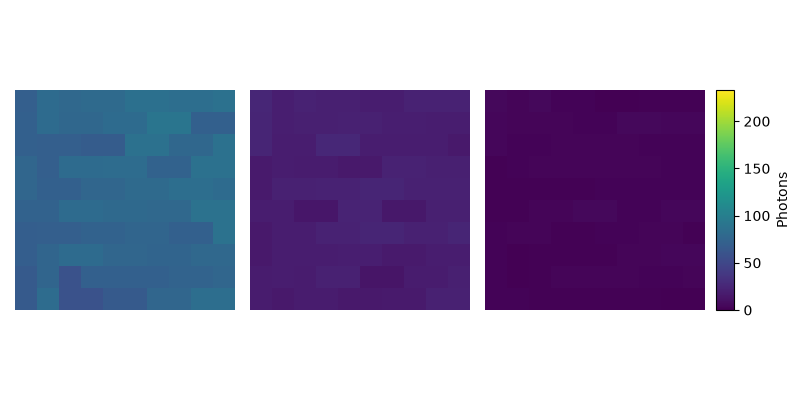
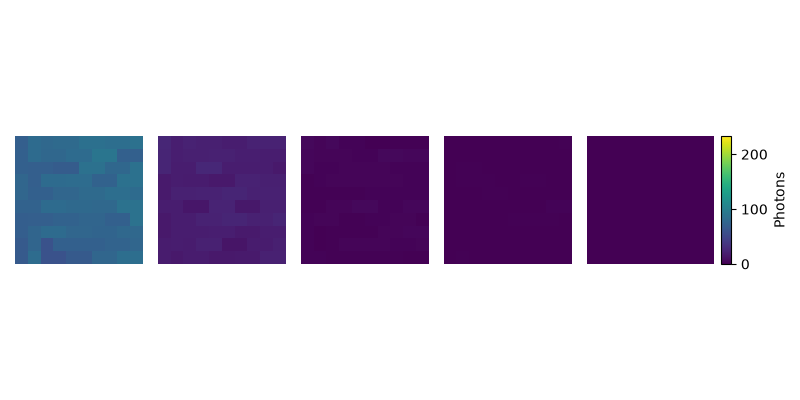
Some plots and code for creating report figures.

diff --git a/code/report/plots.py b/code/report/plots.py
@@ -6,7 +6,7 @@ This code is used to create extra plots for the report (not all plots in the rep
 from astropy.io import fits
 import copy
 import healpy as hp
-# import matplotlib.colorizer as mcolorizer
+# from matplotlib import colorizer as mcolorizer
 import matplotlib.colors as mcolors
 from matplotlib.patches import Polygon
 import matplotlib.pyplot as plt
@@ -446,11 +446,13 @@ def plot_exposure_map(title: str = "Exposure", directory= "./plots/", logarithmi
 
 def plot_simulated_count_map(title: str = "Simulated Count", directory= "./plots/", logarithmic=False):
 
-    _, energy_bins = create_exposure_map(exposure_file="/Volumes/T7/project_data/real_data/fermi_filtered_gti_exposure_map.fits")
+    energy_bins = np.logspace(np.log(300), np.log(200000), num=6, base=np.e)
 
-    location = "./../data_simulation/simulated_data/"
+    agns_maps = np.array([hp.read_map("./skymap_0_for_plotting/agns_{}.fits".format(b)) for b in range(5)])
+    psrs_maps = np.array([hp.read_map("./skymap_0_for_plotting/pulsars_{}.fits".format(b)) for b in range(5)])
+    background_maps = np.array([hp.read_map("./skymap_0_for_plotting/background_{}.fits".format(b)) for b in range(5)])
 
-    healpix_maps = np.array([hp.read_map(location, hdu="SKYMAP", field=b) for b in range(5)])
+    healpix_maps = agns_maps + psrs_maps + background_maps
 
     # Format energy bins
     energy_bin_labels = format_scientific_notation_label(energy_bins)
@@ -475,13 +477,17 @@ def plot_simulated_count_map(title: str = "Simulated Count", directory= "./plots
     else:
         new_line = ""
 
+    plt.rcParams["figure.figsize"] = (40, 50)
+
     for b in range(len(healpix_maps)):
+
         label = "{} Map \n {}{} - {} MeV".format(title, new_line, energy_bin_labels[b], energy_bin_labels[b + 1])
 
         hp.newvisufunc.projview(
             data[b], coord=["G"], graticule=True, graticule_labels=True, xlabel="Galactic Longitude, $l$ [$\\degree$]",
             ylabel="Galactic Latitude, $b$ [$\\degree$]", cb_orientation="vertical", projection_type="aitoff", title=label,
-            sub=(3, 2, b + 1), unit="cm$^2$s", xtick_label_color='white', fontsize={"cbar_tick_label": 12, "cbar_label": 14, "xlabel":14, "ylabel":14}
+            sub=(3, 2, b + 1), unit="log$_{10}$(photons)", xtick_label_color='white',
+            fontsize={"cbar_tick_label": 12, "cbar_label": 14, "xlabel": 14, "ylabel": 14}
         )
 
     plt.tight_layout()
@@ -499,9 +505,9 @@ def plot_419(patch_directory="./../source_extractors/real_data/real_patches/patc
 
     plt.rcParams["figure.figsize"] = (4, 10)
 
-    binned_patch = np.load(patch_directory + "/patch.npy")[:4]
+    binned_patch = np.load(patch_directory + "/patch.npy")
 
-    fig, axs = plt.subplots(4, 1, gridspec_kw={"height_ratios":[1, 1, 1, 0.05]})
+    fig, axs = plt.subplots(6, 1, gridspec_kw={"height_ratios": [1, 1, 1, 1, 1, 0.05]})
 
     # create a colorizer with a predefined norm to be shared across all images
     norm = mcolors.Normalize(vmin=np.min(binned_patch), vmax=np.max(binned_patch))
@@ -513,7 +519,7 @@ def plot_419(patch_directory="./../source_extractors/real_data/real_patches/patc
 
     for ax, data in zip(axs.flat, binned_patch):
 
-        if count == 3:
+        if count == 5:
             fig.colorbar(images[0], orientation='horizontal', cax=ax, fraction=0.1, label="Photons")
             continue
 
@@ -521,6 +527,8 @@ def plot_419(patch_directory="./../source_extractors/real_data/real_patches/patc
         ax.set_axis_off()
 
         count += 1
+
+    fig.colorbar(images[0], orientation='horizontal', cax=axs.flat[5], fraction=0.1, label="Photons")
 
     fig.tight_layout()
 
@@ -574,7 +582,7 @@ def plot_419(patch_directory="./../source_extractors/real_data/real_patches/patc
 
     for r in regions:
 
-        fig, axs = plt.subplots(1, 3,  gridspec_kw={"width_ratios":[1, 1, 1]})
+        fig, axs = plt.subplots(1, 5, gridspec_kw={"width_ratios":[1, 1, 1, 1, 1]})
         # fig.suptitle("Boxes Around Detected Sources")
 
         images = []
@@ -587,7 +595,7 @@ def plot_419(patch_directory="./../source_extractors/real_data/real_patches/patc
 
         for ax, data in zip(axs.flat, r):
 
-            if count == 3:
+            if count == 5:
                 # fig.colorbar(images[0], orientation='vertical', cax=ax, label="Photons", fraction=0.046, pad=0.04)
                 continue
 
@@ -599,7 +607,7 @@ def plot_419(patch_directory="./../source_extractors/real_data/real_patches/patc
         # cax = fig.add_axes([axs.flat[3].get_position().x1 - 0.25, axs.flat[2].get_position().y0, 0.02,
         #                     axs.flat[2].get_position().y1 - axs.flat[2].get_position().y0])
 
-        cax = axs[2].inset_axes((1.05, 0, 0.08, 1.0))
+        cax = axs[4].inset_axes((1.05, 0, 0.08, 1.0))
 
         fig.colorbar(images[0], orientation='vertical', cax=cax, label="Photons")
 
@@ -716,22 +724,163 @@ def plot_integration_of_spectra():
 
     plt.show()
 
+def plot_fitted_point_source_psf(psf_file: str, function_parameters, directory: str):
+
+    empirical = []
+    energy_bins = []
+
+    # Plot empirical data from gtpsf
+    with fits.open(psf_file) as hdul:
+
+        thetas = np.array([k[0] for k in hdul["THETA"].data])
+
+        psf_data = hdul["PSF"].data
+
+        num_bins = len(psf_data)
+
+        for b in range(num_bins):
+            # Lowest energy (MeV) of this bin
+            energy_value = psf_data[b][0]
+
+            # PSF values dP/dOmega - probability to find event in solid angle dOmega at offset r from point source
+            psf_values = np.array(psf_data[b][2])
+
+            psf_values = scale_psf(psf_values, energy_value)
+
+            probs = normalise_psf(thetas, psf_values)
+
+            empirical.append(probs)
+            energy_bins.append(energy_value)
+
+    # Create figure
+    plt.rcParams["figure.figsize"] = (10, 14)
+
+    fig, ax = plt.subplots((num_bins // 2) + (num_bins % 2), 2)
+
+    # Plotting
+    flattened_axes = ax.flatten()
+
+    for x in range(num_bins):
+
+        flattened_axes[x].scatter(thetas, empirical[x], marker='+', label="Empirical", color="blue")
+
+        popt = function_parameters[x]
+
+        flattened_axes[x].plot(thetas, dual_function(thetas, sigma_core=popt[0], gamma_core=popt[1], sigma_tail=popt[2],
+                                                     gamma_tail=popt[3], f_core=popt[4]), label="Fitted King Function",
+                               color="orange", linestyle='--')
+
+        # Sample random values
+        random_values = monte_carlo_sampler(popt, 5000)
+
+        # Plot sampled values
+        counts, bins = np.histogram(random_values, bins=200, density=True)
+        flattened_axes[x].stairs(counts, bins, color="green", label="Random Samples")
+
+    # Formatting
+
+    if num_bins % 2 == 1:
+        fig.delaxes(ax[-1, -1])
+
+    labels = format_scientific_notation_label(energy_bins)
+
+    for x in range(len(energy_bins)):
+
+        a = flattened_axes[x]
+
+        a.set_xlim(0, 5)
+        a.set_ylim(0, )
+
+        a.set_xlabel("Energy Scaled Angular Deviation of $\\gamma$-Ray, $x$ [$\\degree$]")
+        a.set_ylabel("PSF($x, E$)")
+
+        if x == len(energy_bins) - 1:
+            a.set_title("PDF of Angular Deviation for $\\gamma$-Rays \nwith Energy {}+ MeV".format(labels[x]))
+        else:
+            a.set_title("PDF of Angular Deviation for $\\gamma$-Rays \nwith Energy {}-{} MeV".format(labels[x], labels[x+1]))
+
+        a.legend()
+
+    fig.suptitle("Point Spread Function Fitting")
+
+    fig.tight_layout()
+
+    fig.savefig(directory + "/fitted_point_source_psf.png")
+
+    plt.close()
+
+
+def plot_localisation_times():
+
+    # https: // matplotlib.org / stable / gallery / lines_bars_and_markers / barchart.html
+
+    # Increasing order of times
+    algorithm = ["DBSCAN", "$k$-Means", "Blob Detection", "Spectral"]
+
+    time_1 = [26.24301791191101, 1483.1209070682526, 12609.620107889175, 0] # REPLACE THE ZERO
+
+    time_2 = [25.34082794189453, 1458.6058359146118, 12607.771565198898, 0]
+
+    time_3 = [29.49886393547058, 7470.353355169296, 12587.637760162354, 0]
+
+    average = [12600, 27, 3470] # FILL IN WITH SPECTRAL
+
+    times = {
+        "Applied to PSPNet Segmentation": (26.24301791191101, 1483.1209070682526, 12609.620107889175, 88219.83941984177), # REPLACE 0 with spectral
+        "Applied to RF Segmentation": (25.34082794189453, 1458.6058359146118, 12607.771565198898, 56694.98472213745),
+        "Applied to U-Net Segmentation": (29.49886393547058, 7470.353355169296, 12587.637760162354, 145519.62906694412),
+        "Average": (27, 3470, 12600, 96811.484403)
+
+    }
+
+    clustering = ("DBSCAN", "Blob Detection", "$k$-Means", "Spectral")
+
+    plt.rcParams["figure.figsize"] = (7, 5)
+
+    fig, ax = plt.subplots(layout='constrained')
+
+    ax.set_yscale('log')
+
+    res = ax.grouped_bar(times, tick_labels=clustering, group_spacing=1, facecolor=("lightblue", "lightcoral", "palegreen", "palegoldenrod"), edgecolor='black', hatch=("/", "\\", "x", ""))
+
+    # for container in res.bar_containers:
+
+    # for container in res.bar_containers:
+    #
+    #     ax.bar_label(container, padding=3)
+
+    ax.bar_label(res.bar_containers[-1], padding=3, fontsize=12, rotation=90)
+
+    # Add some text for labels, title, etc.
+    ax.set_ylabel('Time (s)', fontsize=14)
+    ax.set_title('Execution Times of Localisation Algorithms', fontsize=18)
+    ax.legend(loc='upper left', fontsize=13)
+    ax.set_ylim(None, 750000)
+
+    ax.tick_params(axis="both", which="major", labelsize=14)
+
+    fig.savefig("./plots/test.png")
+
 
 
 
 if __name__ == "__main__":
 
+    plot_localisation_times()
+
     # plot_fermi_lat_count_map()
     #
     # plot_419()
 
-    plot_fermi_lat_exposure()
+    # plot_fermi_lat_exposure()
+    #
+    # # plot_psf_blur()
+    #
+    # # plot_integration_of_spectra()
+    #
+    # plot_exposure_map()
 
-    # plot_psf_blur()
-
-    # plot_integration_of_spectra()
-
-    plot_exposure_map()
+    # plot_simulated_count_map(logarithmic=True)
 
 
 # REFERENCES

diff --git a/code/source_extractors/algorithms/components/getting_model_info.py b/code/source_extractors/algorithms/components/getting_model_info.py
@@ -1,0 +1,7 @@
+from torchinfo import summary
+
+from unet import UNET
+
+model = UNET(5, 16, 1, padding=1, downhill=4)
+
+summary(model, input_size=(64, 5, 64, 64), device='mps')
